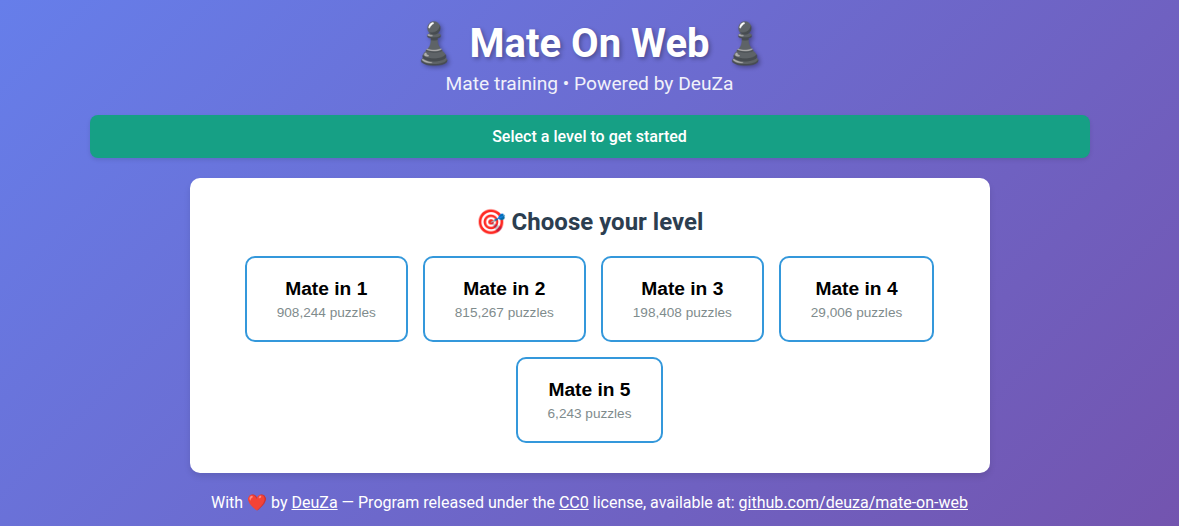
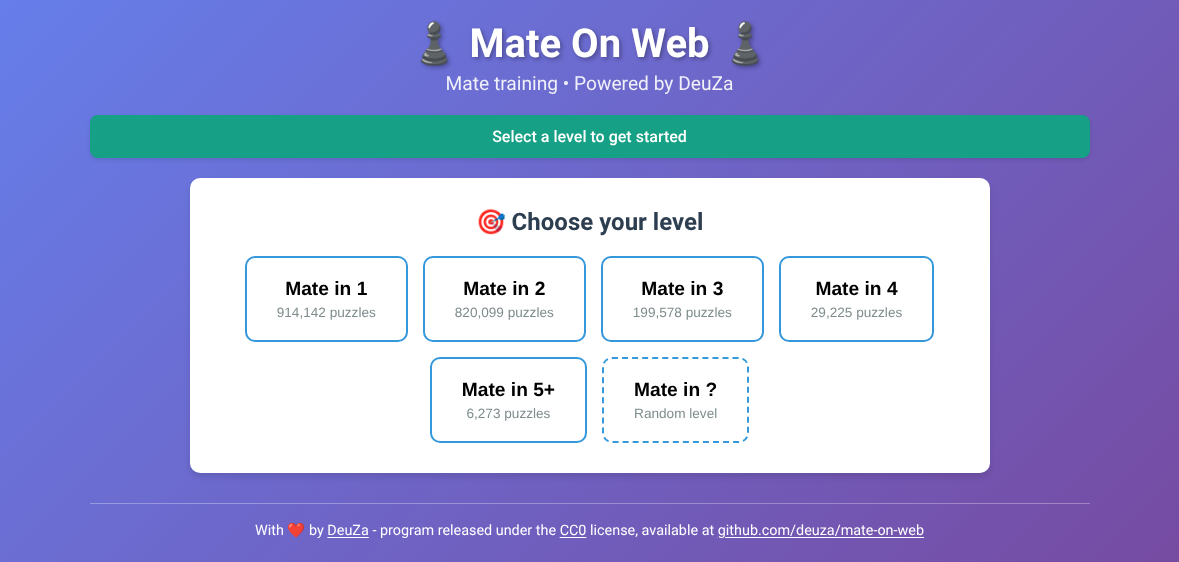
Label level 5 "Mate in 5+" and show the real length of each mate
mat5.csv holds the Lichess theme "Mate in 5 or more": every mate of five
moves or longer. In the November 2026 dump, one puzzle in four of that
level takes six to eleven moves, while the page announced a mate in 5
and the progress counter could read "6 / 5".

- index.php: the level 5 button reads "Mate in 5+"
- app.js: the game area shows the real length of the mate, counted on
  the solution, in both modes (mateLength); currentLevel stays the level
  of the puzzle file, which is also sent to puzzle.php (1 to 5)
- download_puzzles.sh, extract.py: messages and help say 5+ / 5 or more
- README: Mate in 5+ section, usage, mystery level, file structure
- screenshots/mew1.png: level selector with the Mate in 5+ and Mate in ?
  buttons

Changed region(s): [[0.0611, 0.0304, 0.9466, 0.9734], [0.6718, 0.6388, 0.7939, 0.6692]]

diff --git a/app.js b/app.js
@@ -7,7 +7,13 @@
 let game = null;
 let board = null;
 let currentPuzzle = null;
-let currentLevel = null;
+let currentLevel = null;    // Level of the puzzle file, 1 to 5: the chosen one, or the
+                            // one drawn in mystery mode. Outside the mystery mode it is
+                            // also the level asked for the next puzzle, so it must stay
+                            // a level that puzzle.php accepts
+let mateLength = null;      // Real length of the mate on the board, counted on its
+                            // solution: what the page shows. mat5.csv holds the Lichess
+                            // theme "Mate in 5 or more", so it can exceed currentLevel
 let solutionMoves = [];
 let currentMoveIndex = 0;
 let isPlayerTurn = false;   // False until the first puzzle is on the board: the
@@ -481,14 +487,18 @@ async function loadNewPuzzle() {
         puzzleOver = false;
         document.getElementById('retryBtn').style.display = 'none';
         solutionMoves = currentPuzzle.solution.split(' ');
-        // Level of the puzzle now on the board. Outside the mystery mode it
-        // is the chosen level, unchanged. In mystery mode it is the real
-        // length of the mate, counted on the solution (the player plays the
-        // first and the last move): mat5.csv holds the Lichess theme "Mate
-        // in 5 or more", some of whose mates take 6 to 9 moves, and the
-        // reveal must name the mate that was actually played. For levels 1
+        // Level of the puzzle now on the board: the chosen one, or the one
+        // drawn in mystery mode. It stays a level, 1 to 5: outside the
+        // mystery mode it is also the level asked for the next puzzle (see
+        // requestedLevel above), and puzzle.php refuses any other value.
+        currentLevel = requestedLevel;
+        // Real length of the mate, counted on the solution (the player plays
+        // the first and the last move), shown in both modes: mat5.csv holds
+        // the Lichess theme "Mate in 5 or more", every mate of five moves or
+        // longer, so a puzzle of the Mate in 5+ level can be a mate in 7, and
+        // the page must name the mate that is actually played. For levels 1
         // to 4 both values are the same.
-        currentLevel = mysteryMode ? Math.ceil(solutionMoves.length / 2) : requestedLevel;
+        mateLength = Math.ceil(solutionMoves.length / 2);
         currentMoveIndex = 0;
         isPlayerTurn = true;
 
@@ -513,7 +523,7 @@ async function loadNewPuzzle() {
         updateProgress();
         // Mystery mode: the level stays hidden until the end of the puzzle
         setGameMessage(isLevelHidden() ? '🎯 Find the mate!' :
-                       '🎯 Find the mate in ' + currentLevel + '!', '');
+                       '🎯 Find the mate in ' + mateLength + '!', '');
         showStatus('Puzzle loaded - Your move!', 'success');
 
         // Stats
@@ -614,7 +624,7 @@ function onPuzzleSolved() {
     let message = '🎉 Well done! Checkmate!';
     if (mysteryMode) {
         revealMysteryLevel();
-        message += ' It was a mate in ' + currentLevel + '.';
+        message += ' It was a mate in ' + mateLength + '.';
     }
     setGameMessage(message, 'success');
     showStatus('Puzzle solved! Retry it or load another one.', 'success');
@@ -671,7 +681,7 @@ function retryMove() {
     // first branch is a safety net
     updateProgress();
     setGameMessage(isLevelHidden() ? 'Find the mate again!' :
-                   'Find the mate in ' + currentLevel + ' again!', 'info');
+                   'Find the mate in ' + mateLength + ' again!', 'info');
     showStatus('Puzzle restarted - Your move!', 'success');
 }
 
@@ -683,7 +693,7 @@ function showSolution() {
     let message = '💡 Solution: ' + remaining;
     if (mysteryMode && currentPuzzle) {
         revealMysteryLevel();
-        message += ' (mate in ' + currentLevel + ')';
+        message += ' (mate in ' + mateLength + ')';
     }
     setGameMessage(message, 'info');
     
@@ -770,9 +780,11 @@ function flipBoard() {
 }
 
 function updatePuzzleInfo() {
-    // Mystery mode: "Mate in ?" until the end of the puzzle
+    // Real length of the mate, not the number of the level button (a puzzle
+    // of the Mate in 5+ level can be a mate in 7). Mystery mode: "Mate in ?"
+    // until the end of the puzzle
     document.getElementById('currentLevel').textContent =
-        'Mate in ' + (isLevelHidden() ? '?' : currentLevel);
+        'Mate in ' + (isLevelHidden() ? '?' : mateLength);
     document.getElementById('currentPlayer').textContent = currentPuzzle.turn === 'w' ? 'White' : 'Black';
     document.getElementById('openingName').textContent = currentPuzzle.opening || '-';
     const link = document.getElementById('lichessLink');
@@ -792,8 +804,10 @@ function updatePuzzleInfo() {
 
 function updateProgress() {
     const playerMoves = Math.ceil((currentMoveIndex + 1) / 2);
-    // Mystery mode: the total is the level, hidden until the end of the puzzle
-    const totalMoves = isLevelHidden() ? '?' : currentLevel;
+    // The total is the real length of the mate, so that a mate in 7 of the
+    // Mate in 5+ level never shows "6 / 5". Mystery mode: hidden until the
+    // end of the puzzle
+    const totalMoves = isLevelHidden() ? '?' : mateLength;
     document.getElementById('moveProgress').textContent = playerMoves + ' / ' + totalMoves;
 }
 

diff --git a/index.php b/index.php
@@ -67,8 +67,15 @@ for ($i = 1; $i <= 5; $i++) {
                 Run <code>./download_puzzles.sh</code> to generate them.</p>
             <?php else: ?>
                 <?php foreach ($availableLevels as $level => $count): ?>
+                    <?php
+                    // Level 5 is shown as "Mate in 5+": mat5.csv holds the
+                    // Lichess theme "Mate in 5 or more", that is every mate of
+                    // five moves or longer. Once a puzzle is on the board, the
+                    // game area gives the real length of its mate (app.js)
+                    $levelLabel = ($level === 5) ? '5+' : (string) $level;
+                    ?>
                     <button class="level-btn" data-level="<?= $level ?>">
-                        <span class="level-number">Mate in <?= $level ?></span>
+                        <span class="level-number">Mate in <?= $levelLabel ?></span>
                         <span class="level-count"><?= number_format($count) ?> puzzles</span>
                     </button>
                 <?php endforeach; ?>

diff --git a/extract.py b/extract.py
@@ -63,7 +63,9 @@ parser.add_argument(
     dest='mat_en',      # keeps the variable name used below
     type=int,
     choices=[1, 2, 3, 4, 5],
-    help='Only keep mate-in-X puzzles (1 to 5)'
+    # 5 keeps the Lichess theme mateIn5, "Mate in 5 or more": every mate of
+    # five moves or longer (the web page shows that level as "Mate in 5+")
+    help='Only keep mate-in-X puzzles (1 to 5, where 5 means 5 or more)'
 )
 
 parser.add_argument(

diff --git a/README.md b/README.md
@@ -35,6 +35,7 @@ Mate puzzle training web interface, powered by the Lichess database.
   * [File structure](#file-structure)
   * [Usage](#usage)
 
+    * [Mate in 5+](#mate-in-5)
     * [Mystery level](#mystery-level)
     * [Retry](#retry)
     * [Keyboard shortcuts](#keyboard-shortcuts)
@@ -147,18 +148,24 @@ mate-on-web/
 ├── mat2.csv                # Mate-in-2 puzzles (to be generated)
 ├── mat3.csv                # Mate-in-3 puzzles (to be generated)
 ├── mat4.csv                # Mate-in-4 puzzles (to be generated)
-├── mat5.csv                # Mate-in-5 puzzles (to be generated)
+├── mat5.csv                # Mate-in-5-or-more puzzles (to be generated)
 ├── 
 └── matN.count              # Line count of each matN.csv (generated with it, read by index.php)
 ```
 
 ## Usage
 
-1. **Select a level** : Mate in 1, 2, 3, 4 or 5 moves, or Mate in ? for a random level (see below)
+1. **Select a level** : Mate in 1, 2, 3 or 4 moves, Mate in 5+ for five moves or more, or Mate in ? for a random level (both explained below)
 2. **Play** : Drag and drop a piece, or tap (click) it and then its destination, to find the mate
 3. **Wrong move** : The move is taken back, try another one or show the solution
 4. **Right move** : The opponent replies automatically
 5. **Puzzle over** (mate found or solution shown) : Retry the same puzzle from its start, or load a new one (see below)
+
+### Mate in 5+
+
+The **Mate in 5+** level is the Lichess theme "Mate in 5 or more" : the Lichess tagger files every mate of five moves or longer under it, and `mat5.csv` keeps it whole. In the dump of November 2026, one puzzle in four of that level takes six moves or more, up to eleven.
+
+The game area therefore gives the real length of each puzzle, counted on its solution, rather than the number of the button : the Level line, the "Find the mate in ..." message and the total of the progress counter can say 7 for a puzzle drawn from Mate in 5+. Levels 1 to 4 hold exact lengths, so both numbers are the same there.
 
 ### Mystery level
 
@@ -166,7 +173,7 @@ The **Mate in ?** button draws the level of each puzzle at random among the avai
 
 * Each level has the same chance (one in five with the five files), whatever its number of puzzles
 * Each draw is independent of the previous ones, so the same level can come twice in a row : the sequence gives nothing away
-* The level, the total of the progress counter and the Lichess link stay hidden until the mate is found or the solution is shown, then the real length of the mate is revealed, counted on the solution : `mat5.csv` holds the Lichess theme "Mate in 5 or more", so a puzzle drawn at level 5 can turn out to be a mate in 6 to 9
+* The level, the total of the progress counter and the Lichess link stay hidden until the mate is found or the solution is shown, then the real length of the mate is revealed, counted on the solution as on the other levels : a puzzle drawn at level 5 can turn out to be a mate in 6 or more (see [Mate in 5+](#mate-in-5))
 
 The draw is made in the browser : `puzzle.php` receives an ordinary level and picks the puzzle as usual. The button only appears when at least two puzzle files exist.
 
